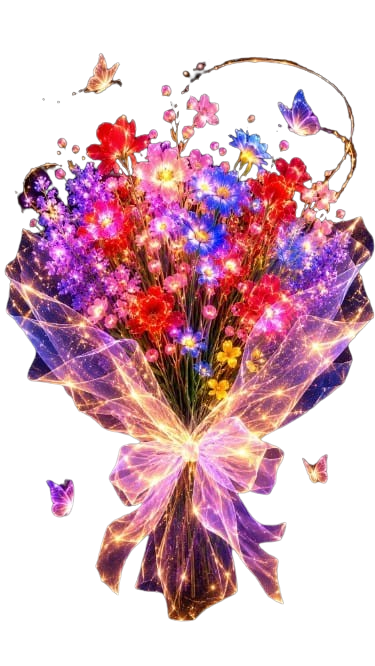
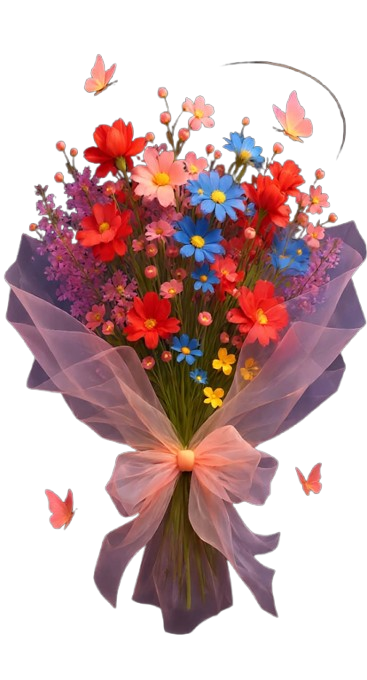
first commit

diff --git a/index.html b/index.html
@@ -449,7 +449,17 @@
 
                 <!-- Revealed Bouquet -->
                 <div id="gift-reveal" class="gift-reveal">
-                    <h3 class="gift-reveal-title">Aku nyaman sama kamu, aku pengen kita punya hubungan yang jelas. </h3>
+                    <h3 class="gift-reveal-title">
+                        Di hari yang spesial ini,<br>
+                        sepertinya ini adalah waktu yang tepat.
+                        
+                        <span>
+                            Aku nyaman sama kamu,<br>
+                            dan aku pengen kita punya hubungan yang lebih jelas.
+                        </span>
+
+                        <strong>Will you be my girlfriend? 💍</strong>
+                    </h3>
                     <div class="bouquet-wrapper" id="reward-frame-tilt">
                         <img src="assets/bucket.png" alt="Romantic Flower Bouquet" class="bouquet-img">
                     </div>

diff --git a/css/index.css b/css/index.css
@@ -1235,10 +1235,18 @@ body {
 }
 
 .gift-reveal-title {
-    font-family: var(--font-head);
-    font-size: clamp(1.3rem, 4vw, 1.8rem);
-    color: var(--quartz-pink);
-    margin-bottom: 1.2rem;
+    text-align: center;
+    line-height: 1.7;
+}
+
+.gift-reveal-title span {
+    display: block;
+    margin-top: 16px;
+}
+
+.gift-reveal-title strong {
+    display: block;
+    margin-top: 18px;
 }
 
 /* 3D Tilt Card Frame */
